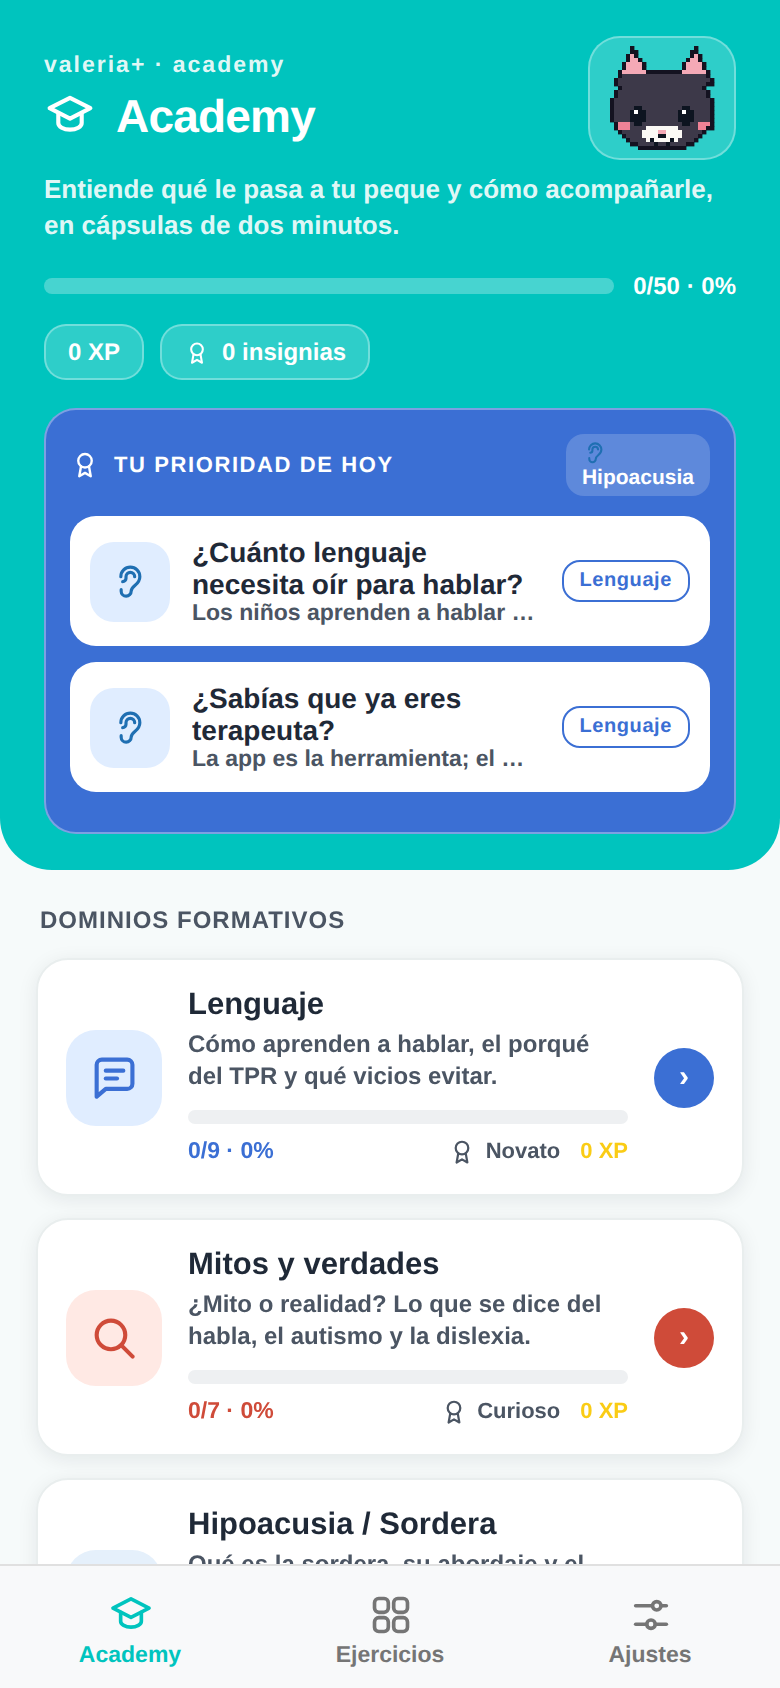
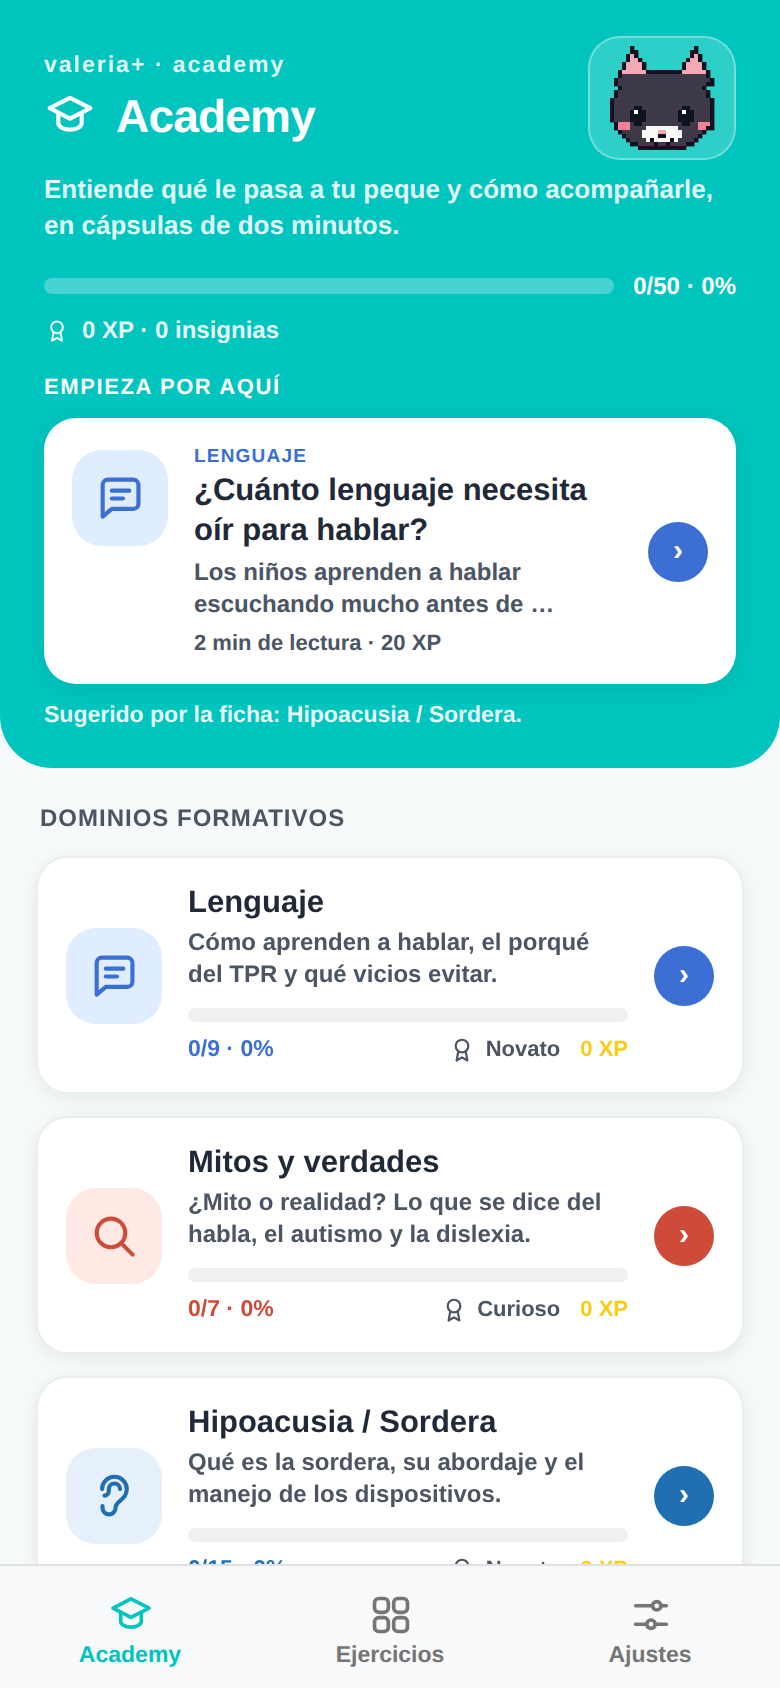
Academy: una sola cápsula sugerida en vez de dos (#98)

diff --git a/src/ValeriaAcademy/AcademyNextStep.tsx b/src/ValeriaAcademy/AcademyNextStep.tsx
@@ -1,0 +1,160 @@
+// ============================================================================
+// Valeria+ · Academy — Siguiente paso (V3.0)
+// Sustituye al Feed de Prioridad, que ofrecía DOS cápsulas a la vez y con ellas
+// se comía media pantalla: la cabecera medía 425 px de 844 y el catálogo de
+// dominios —el contenido real— empezaba fuera de la vista.
+//
+// Ahora es UNA sola tarjeta: la siguiente cápsula que toca leer. Y no es la
+// misma para siempre; la elección avanza con el progreso (semilla del dominio →
+// resto de su catálogo → refuerzo transversal de Lenguaje), así que sigue
+// sirviendo después de leer las dos primeras en vez de desaparecer.
+//
+// RESTRICCIÓN MDR / arquitectura: sigue siendo SOLO presentación. Lee la
+// patología de la Ficha (STORAGE_KEYS.registro) para ordenar la sugerencia y no
+// escribe nada. La cápsula pertenece a su dominio de origen y su XP se inyecta
+// en ESE silo (lo garantiza academyStore vía capsule.domain).
+// ============================================================================
+import React, { useEffect, useState } from 'react';
+import { View, Text, Pressable, StyleSheet } from 'react-native';
+import AsyncStorage from '@react-native-async-storage/async-storage';
+import { STORAGE_KEYS, V } from '../valeriaTheme';
+import { useT } from '../i18n';
+import { domainMetaFor, domainFromPatologia } from './academyDomains';
+import { capsulesForUiLang } from './academyContent';
+import { getResults } from './academyStore';
+import { AcademyCapsule, AcademyDomain } from './academyTypes';
+import { BlockIcon } from '../ValeriaBlockIcons';
+import { getUiLang } from '../valeriaUiLang';
+
+// Por dónde se entra a cada dominio. Antes eran dos ids por dominio y se
+// pintaban los dos; ahora es el ORDEN en que se recorren, y solo se enseña el
+// primero que quede sin leer.
+//
+// Hipoacusia no tiene catálogo de cápsulas (su dominio son las guías del
+// BottomSheet), así que su entrada son cápsulas de Lenguaje. Eso el usuario lo
+// VE ahora: cuando el dominio de la cápsula no es el de la ficha, la tarjeta
+// dice por qué. Antes el rótulo decía «Hipoacusia» sobre dos cápsulas marcadas
+// «Lenguaje» y con el icono de oreja encima, sin explicación.
+const PRIORITY_BY_DOMAIN: Record<AcademyDomain, string[]> = {
+  lenguaje:   ['dev-input', 'med-adulto'],
+  // Mitos: se entra por el que sostiene a todos los demás («se aprende
+  // imitando»), porque desmontarlo es lo que hace entendible el resto del
+  // método; el segundo es el que más caro se paga si nadie lo contradice a
+  // tiempo («ya hablará»).
+  mitos:      ['mito-imitacion', 'mito-esperar'],
+  hipoacusia: ['dev-input', 'med-adulto'],
+  dislalias:  ['dis-punto', 'dev-input'],
+  dislexia:   ['dlx-fonologica', 'dev-input'],
+  tea:        ['tea-anticipar', 'med-adulto'],
+  // LSE: se entra por qué es la lengua, no por el vocabulario. La cápsula que
+  // responde «¿signar retrasa el habla?» va la segunda a propósito: es la duda
+  // que trae la familia, y contestarla antes de nada evita que el resto del
+  // módulo se lea con esa sospecha de fondo.
+  signos:     ['lse-que-es', 'lse-no-frena'],
+};
+
+// La siguiente cápsula sin leer, en tres escalones. El tercero existe porque
+// Lenguaje es el sustrato común a todos los dominios: cuando el silo propio se
+// agota (o no tiene catálogo, como Hipoacusia), lo que toca es reforzar ahí.
+export const pickNextCapsule = (
+  domain: AcademyDomain,
+  capsules: AcademyCapsule[],
+  done: Readonly<Record<string, unknown>>,
+): AcademyCapsule | null => {
+  const pending = (c: AcademyCapsule | undefined): c is AcademyCapsule => !!c && !done[c.id];
+  for (const id of PRIORITY_BY_DOMAIN[domain] ?? []) {
+    const seed = capsules.find((c) => c.id === id);
+    if (pending(seed)) return seed;
+  }
+  return capsules.find((c) => c.domain === domain && !done[c.id])
+    ?? capsules.find((c) => c.domain === 'lenguaje' && !done[c.id])
+    ?? null;
+};
+
+export const AcademyNextStep: React.FC<{
+  onOpenCapsule: (capsule: AcademyCapsule) => void;
+  refreshKey?: number;
+}> = ({ onOpenCapsule, refreshKey }) => {
+  const t = useT();
+  const [activeDomain, setActiveDomain] = useState<AcademyDomain>('lenguaje');
+
+  // Lectura pasiva y única de la Ficha (JSON en claro). No bloquea el render.
+  useEffect(() => {
+    let alive = true;
+    (async () => {
+      try {
+        const raw = await AsyncStorage.getItem(STORAGE_KEYS.registro);
+        if (alive && raw) setActiveDomain(domainFromPatologia(JSON.parse(raw)?.patologia));
+      } catch (e) {
+        /* sin Ficha: se mantiene 'lenguaje' */
+      }
+    })();
+    return () => { alive = false; };
+  }, []);
+
+  const results = getResults();
+  void refreshKey;
+
+  const lang = getUiLang();
+  const next = pickNextCapsule(activeDomain, capsulesForUiLang(lang), results);
+  if (!next) return null;
+
+  const cm = domainMetaFor(next.domain, lang);
+  const borrowed = next.domain !== activeDomain;
+
+  return (
+    <View style={s.wrap}>
+      <Text style={s.kicker}>{t.academy.nextStepKicker}</Text>
+
+      <Pressable
+        onPress={() => onOpenCapsule(next)}
+        style={s.card}
+        accessibilityRole="button"
+        accessibilityLabel={t.academy.priorityA11y(next.title, cm.label)}
+      >
+        {/* Icono y rótulo del dominio DE LA CÁPSULA. Hasta aquí se pintaba el
+            icono del dominio ACTIVO sobre el fondo del dominio de la cápsula:
+            una cápsula de Lenguaje salía con la oreja de Hipoacusia. */}
+        <View style={[s.icon, { backgroundColor: cm.accentBg }]}>
+          <BlockIcon name={cm.icon} color={cm.accentFg} size={26} />
+        </View>
+        <View style={{ flex: 1 }}>
+          <Text style={[s.track, { color: cm.accentFg }]}>{cm.label.toUpperCase()}</Text>
+          {/* Dos líneas, no una: los títulos son preguntas («¿Cómo aprenden a
+              hablar?») y a una línea se cortaban TODOS. */}
+          <Text style={s.title} numberOfLines={2}>{next.title}</Text>
+          <Text style={s.summary} numberOfLines={2}>{next.summary}</Text>
+          <Text style={s.meta}>{t.academy.readTime(next.minutes)} · {next.xp} XP</Text>
+        </View>
+        <View style={[s.chev, { backgroundColor: cm.accentFg }]}>
+          <Text style={s.chevTxt}>›</Text>
+        </View>
+      </Pressable>
+
+      {borrowed && (
+        <Text style={s.reason}>
+          {t.academy.nextStepReason(domainMetaFor(activeDomain, lang).label)}
+        </Text>
+      )}
+    </View>
+  );
+};
+
+const s = StyleSheet.create({
+  // Sin caja de color alrededor: la tarjeta blanca sobre el turquesa de la
+  // cabecera ya se separa sola. El bloque azul que la envolvía era un
+  // contenedor dentro de otro contenedor, y a 390 px eso es ruido.
+  wrap: { marginTop: 16 },
+  kicker: { color: '#fff', fontSize: 11, fontWeight: '800', letterSpacing: 0.8, marginBottom: 9 },
+  card: { flexDirection: 'row', alignItems: 'flex-start', gap: 13, backgroundColor: '#fff', borderRadius: 16, padding: 14, ...V.shadow.card },
+  icon: { width: 48, height: 48, borderRadius: 15, alignItems: 'center', justifyContent: 'center', marginTop: 2 },
+  track: { fontSize: 9.5, fontWeight: '800', letterSpacing: 0.6, marginBottom: 2 },
+  title: { fontSize: 15.5, fontWeight: '800', color: V.color.textPrimary, lineHeight: 20 },
+  summary: { fontSize: 12, fontWeight: '600', color: V.color.textSecondary, marginTop: 2, lineHeight: 16 },
+  meta: { fontSize: 11, fontWeight: '700', color: V.color.textSecondary, marginTop: 6 },
+  chev: { width: 30, height: 30, borderRadius: 15, alignItems: 'center', justifyContent: 'center', alignSelf: 'center' },
+  chevTxt: { color: '#fff', fontSize: 15, fontWeight: '800' },
+  reason: { color: 'rgba(255,255,255,.92)', fontSize: 11.5, fontWeight: '700', marginTop: 8, lineHeight: 16 },
+});
+
+export default AcademyNextStep;

diff --git a/src/ValeriaAcademy/ValeriaAcademyScreen.tsx b/src/ValeriaAcademy/ValeriaAcademyScreen.tsx
@@ -1,7 +1,7 @@
 // ============================================================================
 // Valeria+ · Academy — Pantalla principal (V2.0 · HUB MULTIDOMINIO)
 // Vistas internas (sin anidar navegación profunda):
-//   'hub'   → Feed de Prioridad + grid/stack de 5 Tarjetas de Dominio.
+//   'hub'   → Siguiente paso (1 cápsula) + stack de Tarjetas de Dominio.
 //   'list'  → catálogo de cápsulas de UN dominio.
 //   'read'  → lectura por diapositivas de la cápsula.
 //   'quiz'  → validación ágil (micro-quiz con feedback inmediato).
@@ -23,7 +23,7 @@ import {
 } from './academyStore';
 import { AcademyBadge, AcademyCapsule, AcademyDomain } from './academyTypes';
 import { AcademyDomainCard } from './AcademyDomainCard';
-import { AcademyPriorityFeed } from './AcademyPriorityFeed';
+import { AcademyNextStep } from './AcademyNextStep';
 import { HipoacusiaBottomSheet } from './HipoacusiaBottomSheet';
 import { SignAlphabetChart, SignFigure } from './AcademySignosSvg';
 import { BlockIcon } from '../ValeriaBlockIcons';
@@ -101,7 +101,10 @@ export const ValeriaAcademyScreen: React.FC<{ navigation: any }> = ({ navigation
               <CatPixel size={54} pose="head" />
             </View>
           </View>
-          <Text style={s.headerSub}>{t.academy.headerSub}</Text>
+          {/* El reclamo es para quien llega por primera vez. A quien ya ha
+              leído una cápsula le ocupaba dos líneas de cabecera para contarle
+              lo que ya sabe, y empujaba el catálogo fuera de la pantalla. */}
+          {summary.completedCount === 0 && <Text style={s.headerSub}>{t.academy.headerSub}</Text>}
           {/* El contenido formativo no existe todavía en todos los idiomas de
               interfaz (ver src/i18n/uiLangFallback.ts). Cuando se sirve en otro,
               se DICE aquí: media Academy en catalán y media en castellano sin
@@ -116,12 +119,14 @@ export const ValeriaAcademyScreen: React.FC<{ navigation: any }> = ({ navigation
             </View>
             <Text style={s.hProgressTxt}>{t.academy.progressTxt(summary.completedCount, summary.totalCount, pct)}</Text>
           </View>
+          {/* XP e insignias en una línea de texto, no en dos píldoras con borde:
+              es un marcador, no un botón, y con la píldora parecía pulsable. */}
           <View style={s.gameRow}>
-            <View style={s.gameChip}><Text style={s.gameChipTxt}>{t.academy.xpTxt(summary.xp)}</Text></View>
-            <View style={s.gameChip}><BlockIcon name="level" color="#ffffff" size={13} /><Text style={s.gameChipTxt}>{t.academy.badgesTxt(summary.badgeCount)}</Text></View>
+            <BlockIcon name="level" color="rgba(255,255,255,.9)" size={13} />
+            <Text style={s.gameTxt}>{t.academy.xpTxt(summary.xp)} · {t.academy.badgesTxt(summary.badgeCount)}</Text>
           </View>
 
-          <AcademyPriorityFeed onOpenCapsule={openCapsule} refreshKey={refreshKey} />
+          <AcademyNextStep onOpenCapsule={openCapsule} refreshKey={refreshKey} />
         </View>
 
         <ScrollView contentContainerStyle={s.scroll} showsVerticalScrollIndicator={false}>
@@ -487,9 +492,8 @@ const s = StyleSheet.create({
   hProgressTrack: { flex: 1, height: 8, borderRadius: 5, backgroundColor: 'rgba(255,255,255,.28)', overflow: 'hidden' },
   hProgressFill: { height: 8, borderRadius: 5, backgroundColor: '#fff' },
   hProgressTxt: { color: '#fff', fontSize: 12, fontWeight: '800' },
-  gameRow: { flexDirection: 'row', gap: 8, marginTop: 12, flexWrap: 'wrap' },
-  gameChip: { flexDirection: 'row', alignItems: 'center', gap: 6, backgroundColor: 'rgba(255,255,255,.18)', borderWidth: 1, borderColor: 'rgba(255,255,255,.32)', borderRadius: 11, paddingHorizontal: 11, paddingVertical: 6 },
-  gameChipTxt: { color: '#fff', fontSize: 12, fontWeight: '800' },
+  gameRow: { flexDirection: 'row', alignItems: 'center', gap: 6, marginTop: 8 },
+  gameTxt: { color: 'rgba(255,255,255,.92)', fontSize: 12, fontWeight: '800' },
 
   scroll: { padding: 18, paddingBottom: 28 },
   listLabel: { fontSize: 12, fontWeight: '800', color: V.color.textSecondary, letterSpacing: 0.5, marginBottom: 12, marginHorizontal: 2 },

diff --git a/docs/manual-casos-de-uso.html b/docs/manual-casos-de-uso.html
@@ -318,14 +318,14 @@
       <p class="lead">Quince minutos aquí valen más que quince de ejercicios a ciegas. En estos ejercicios el motor
       es usted, así que aprender a acompañar es parte del tratamiento.</p>
       <ol class="steps">
-        <li>Pestaña <strong>Academy</strong>. Arriba, «<strong>Tu prioridad de hoy</strong>» propone el dominio que encaja con la patología de la ficha.</li>
+        <li>Pestaña <strong>Academy</strong>. Arriba, «<strong>Empieza por aquí</strong>» propone <em>una</em> cápsula: la siguiente que toca leer según la patología de la ficha. Al terminarla, propone la siguiente.</li>
         <li>Abrir una <strong>cápsula</strong> (unos dos minutos).</li>
         <li>Pasar las diapositivas con <strong>«Siguiente»</strong> y responder el <strong>quiz</strong> del final. Cada respuesta se explica.</li>
       </ol>
       <p style="margin-top:8px">Hay siete dominios: Lenguaje, Mitos y verdades, Hipoacusia y sordera, Dislalias,
       Dislexia, TEA y Lengua de Signos. Academy lleva sus propios puntos e insignias, aparte de los del niño.</p>
       <div class="shots">
-        <figure class="shot"><img src="screenshots/27-academy-hub.png" alt="Academy"><figcaption><span class="fig"></span> · Los dominios, con la prioridad arriba.</figcaption></figure>
+        <figure class="shot"><img src="screenshots/27-academy-hub.png" alt="Academy"><figcaption><span class="fig"></span> · Los dominios, con la cápsula sugerida arriba.</figcaption></figure>
         <figure class="shot"><img src="screenshots/30-academy-quiz.png" alt="Quiz de Academy"><figcaption><span class="fig"></span> · El quiz explica cada respuesta.</figcaption></figure>
       </div>
     </div>

diff --git a/scripts/test-challenger-final-ca-integration.js b/scripts/test-challenger-final-ca-integration.js
@@ -535,7 +535,7 @@ async function main() {
   }
   extractSignatures(sourceFile);
 
-  runTest('TEST-4.3: Dynamic AST-Driven Execution of all 223 Interpolation Functions in CA', () => {
+  runTest('TEST-4.3: Dynamic AST-Driven Execution of all 224 Interpolation Functions in CA', () => {
     let funcCount = 0;
     const knownKeys = {
       'ficha.genderLabel': 'Niña',
@@ -603,7 +603,7 @@ async function main() {
       }
     }
 
-    assert.strictEqual(funcCount, 223, 'Successfully tested all 223 interpolation functions across catalogs');
+    assert.strictEqual(funcCount, 224, 'Successfully tested all 224 interpolation functions across catalogs');
   });
 
   // ──────────────────────────────────────────────────────────────────────────

diff --git a/src/i18n/strings.ca.ts b/src/i18n/strings.ca.ts
@@ -1504,7 +1504,8 @@ export const CA: UiStrings = {
     hubCardComplete: 'Formació completada',
     hubCardProgress: (completed: number, total: number, pct: number): string => `${completed}/${total} unitats · ${pct}%`,
     hubCardA11y: (completed: number, total: number): string => `Valeria Academy: formació per a persones cuidadores. ${completed} de ${total} càpsules completades.`,
-    priorityKicker: 'LA TEVA PRIORITAT D\'AVUI',
+    nextStepKicker: 'COMENÇA PER AQUÍ',
+    nextStepReason: (domain: string): string => `Suggerit per la fitxa: ${domain}.`,
     priorityA11y: (title: string, domain: string): string => `Prioritat suggerida: ${title}. Domini ${domain}.`,
     whyKicker: 'PER QUÈ AQUESTA CÀPSULA?',
     readTime: (min: number): string => `${min} min de lectura`,

diff --git a/src/i18n/strings.es.ts b/src/i18n/strings.es.ts
@@ -1598,7 +1598,8 @@ export const ES = {
     hubCardComplete: 'Formación completada',
     hubCardProgress: (completed: number, total: number, pct: number): string => `${completed}/${total} unidades · ${pct}%`,
     hubCardA11y: (completed: number, total: number): string => `Valeria Academy: formación para cuidadores. ${completed} de ${total} cápsulas completadas.`,
-    priorityKicker: 'TU PRIORIDAD DE HOY',
+    nextStepKicker: 'EMPIEZA POR AQUÍ',
+    nextStepReason: (domain: string): string => `Sugerido por la ficha: ${domain}.`,
     priorityA11y: (title: string, domain: string): string => `Prioridad sugerida: ${title}. Dominio ${domain}.`,
     whyKicker: '¿POR QUÉ ESTA CÁPSULA?',
     readTime: (min: number): string => `${min} min de lectura`,

diff --git a/src/i18n/strings.en.ts b/src/i18n/strings.en.ts
@@ -1544,7 +1544,8 @@ export const EN: UiStrings = {
     hubCardComplete: 'Training complete',
     hubCardProgress: (completed: number, total: number, pct: number): string => `${completed}/${total} units · ${pct}%`,
     hubCardA11y: (completed: number, total: number): string => `Valeria Academy: caregiver training. ${completed} of ${total} capsules completed.`,
-    priorityKicker: 'YOUR PRIORITY TODAY',
+    nextStepKicker: 'START HERE',
+    nextStepReason: (domain: string): string => `Suggested by the patient record: ${domain}.`,
     priorityA11y: (title: string, domain: string): string => `Suggested priority: ${title}. Domain ${domain}.`,
     whyKicker: 'WHY THIS CAPSULE?',
     readTime: (min: number): string => `${min} min read`,

diff --git a/src/ValeriaAcademy/index.ts b/src/ValeriaAcademy/index.ts
@@ -4,7 +4,7 @@
 export { ValeriaAcademyScreen, default } from './ValeriaAcademyScreen';
 export { AcademyHubCard } from './AcademyHubCard';
 export { AcademyDomainCard } from './AcademyDomainCard';
-export { AcademyPriorityFeed } from './AcademyPriorityFeed';
+export { AcademyNextStep } from './AcademyNextStep';
 export { HipoacusiaBottomSheet } from './HipoacusiaBottomSheet';
 export {
   EarAnatomySvg,

diff --git a/README.md b/README.md
@@ -1897,8 +1897,9 @@ trazabilidad completa está en
   `eu‑ES` con recaída `es‑ES` + pliegue de la ⟨h⟩ muda (`foldBasque`).
 - **Academy multidominio** (`src/ValeriaAcademy/`): cinco dominios (Lenguaje,
   Hipoacusia, Dislalias, Dislexia y TEA), cada uno con su escala de niveles e
-  insignias, más un **feed de prioridad** según la patología de la ficha y
-  micro‑guías de hardware (audífono/implante/osteointegrado) en Hipoacusia.
+  insignias, más una tarjeta de **siguiente paso** —una sola cápsula, la que toca
+  ahora— según la patología de la ficha, y micro‑guías de hardware
+  (audífono/implante/osteointegrado) en Hipoacusia.
 - **Manual de casos de uso v9**: HTML, DOCX y PDF actualizados a los seis
   bloques, las cuatro variedades y Academy multidominio.
 
